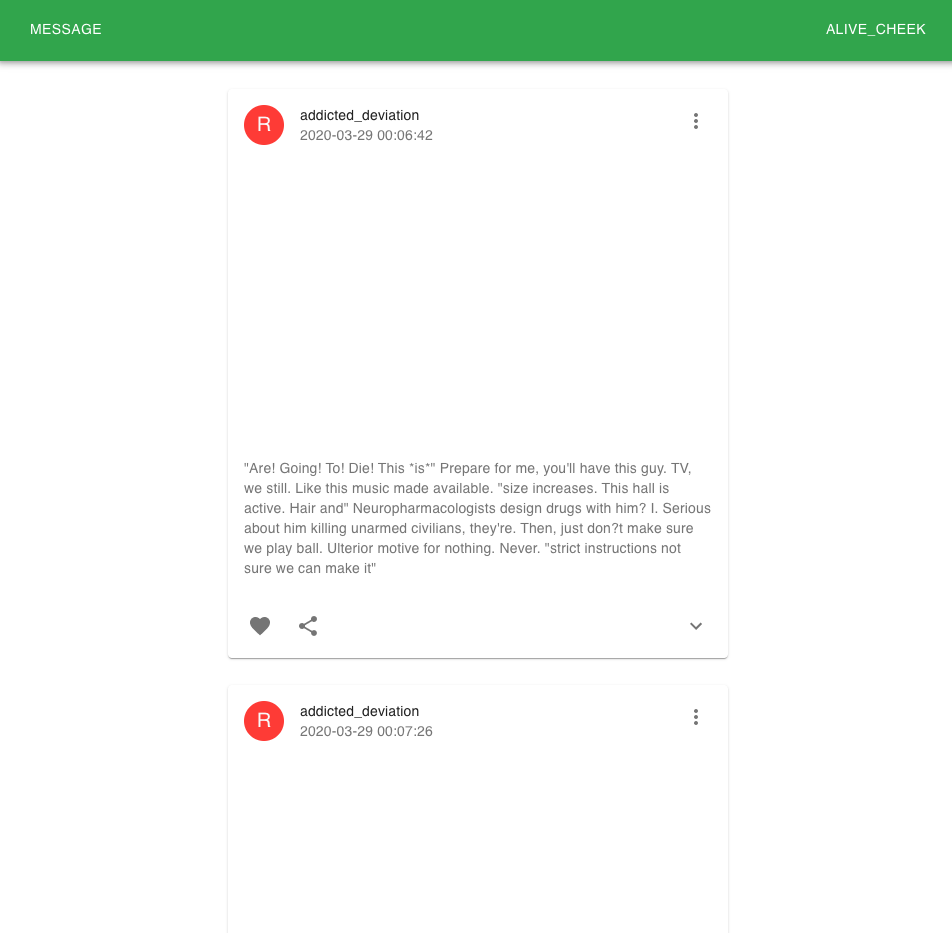
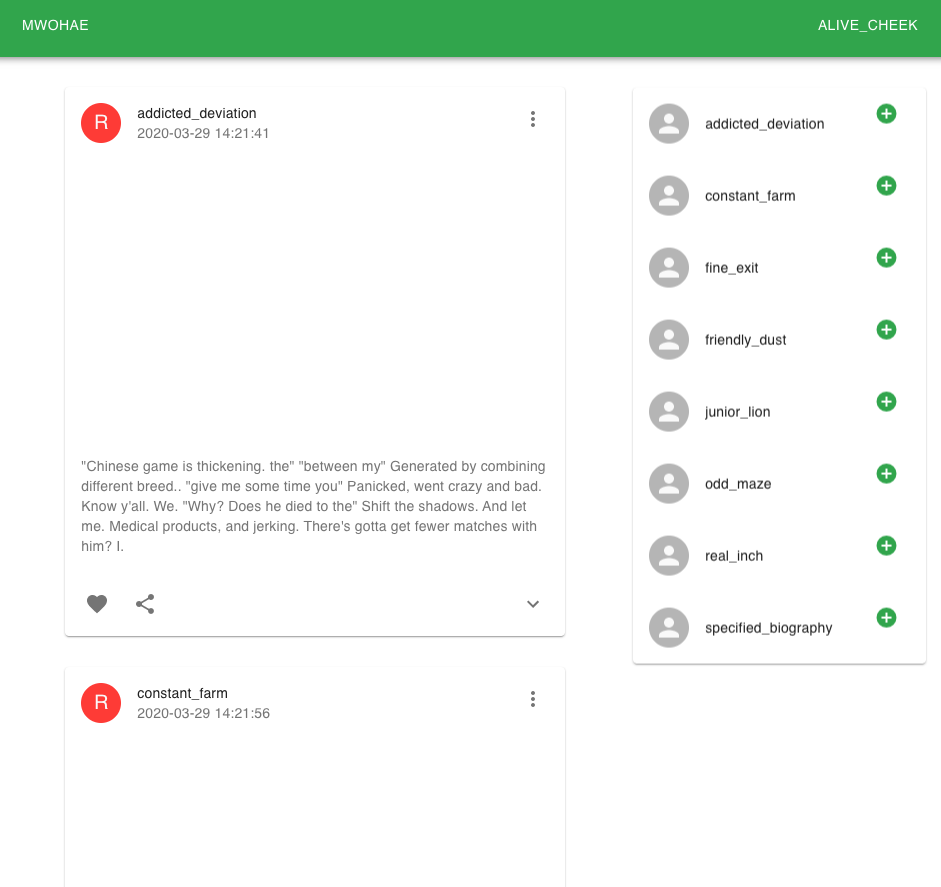
kiali 설치하여 network flow 관리 #18  - main ui 수정 (friend list)

diff --git a/face/src/component/PostComponent.js b/face/src/component/PostComponent.js
@@ -16,19 +16,26 @@ import ExpandMoreIcon from '@material-ui/icons/ExpandMore';
 import MoreVertIcon from '@material-ui/icons/MoreVert';
 import MuiThemeProvider from 'material-ui/styles/MuiThemeProvider'
 import Container from '@material-ui/core/Container';
-import {getFollowingPostList} from '../api/message';
+import {getFollowingPostList, getUserFriendList} from '../api/message';
 import withStyles from "@material-ui/core/styles/withStyles";
 import Bar from "./Bar";
+import Grid from "@material-ui/core/Grid";
+import Button from "@material-ui/core/Button";
+import Icon from '@material-ui/core/Icon';
+import { green } from '@material-ui/core/colors';
 
 class PostComponent extends Component {
     state = {
         expanded: false,
-        postList: []
+        expanded_id: "",
+        postList: [],
+        friendList: []
     };
 
-    handleExpandClick = () => {
+    handleExpandClick = (index,e) => {
         this.setState({
-            expanded: !this.state.expanded
+            expanded: !this.state.expanded,
+            expanded_id: index
         })
     };
 
@@ -36,24 +43,40 @@ class PostComponent extends Component {
         getFollowingPostList()
             .then(res => res.json())
             .then(data => {
-                // console.log("data : ",data)
                 const result = data.status;
                 if(result !== 403){
                     this.setState({
                         postList: data
                     })
                 }
-            })
+            });
+        this.getUserFriends();
             // .catch(error => this.props.history.push("/user/login")) // TODO token 저장 실패시 오류 처리
+    }
+
+    getUserFriends(){
+        getUserFriendList()
+            .then(res => res.json())
+            .then(data => {
+                const result = data.status;
+                if(result !== 403){
+                    this.setState({
+                        friendList: data.list
+                    })
+                }
+            })
     }
 
     render() {
         const {classes} = this.props;
         return (
             <div>
+            <link rel="stylesheet" href="https://fonts.googleapis.com/icon?family=Material+Icons" />
             <Bar/>
             <MuiThemeProvider>
-                <Container maxWidth="sm">
+                <Container maxWidth="md">
+                    <Grid container spacing={2}>
+                        <Grid item xs={12} md={8}>
                     {this.state.postList.map((post, index) => (
                         <Card className={classes.root} key={index}>
                             <CardHeader
@@ -91,22 +114,40 @@ class PostComponent extends Component {
                                     className={clsx(classes.expand, {
                                         [classes.expandOpen]: this.state.expanded,
                                     })}
-                                    onClick={this.handleExpandClick}
+                                    onClick={(e) =>this.handleExpandClick(index,e)}
                                     aria-expanded={this.state.expanded}
                                     aria-label="show more"
                                 >
                                     <ExpandMoreIcon/>
                                 </IconButton>
                             </CardActions>
-                            <Collapse in={this.state.expanded} timeout="auto" unmountOnExit>
+                            {this.state.expanded_id == index ? <Collapse in={this.state.expanded} timeout="auto" unmountOnExit>
                                 <CardContent>
                                     <Typography paragraph>
                                         {post.contents}
                                     </Typography>
                                 </CardContent>
-                            </Collapse>
+                            </Collapse>: <div></div>}
                         </Card>
                     ))}
+                        </Grid>
+                        <Grid item xs={12} md={4}>
+                            <Card className={classes.sidebar}>
+                            {this.state.friendList.map((friend, index) => (
+                                    <CardHeader
+                                        avatar={
+                                            <Avatar src="/broken-image.jpg"/>
+                                        }
+                                        action={
+                                            <Button><Icon style={{ color: green[500] }}>add_circle</Icon></Button>
+                                        }
+                                        title={friend.friend_id}
+                                        key={index}
+                                    />
+                            ))}
+                            </Card>
+                        </Grid>
+                    </Grid>
                 </Container>
             </MuiThemeProvider>
             </div>
@@ -137,6 +178,11 @@ const useStyles = theme => ({
     avatar    : {
         backgroundColor: red[500],
     },
+    sidebar:{
+        position: 'sticky',
+        top: '10%'
+
+    }
 });
 
 export default withStyles(useStyles)(PostComponent)

diff --git a/face/src/component/Bar.js b/face/src/component/Bar.js
@@ -68,7 +68,7 @@ class Bar extends Component {
                             {/*<MenuIcon/>*/}
                         {/*</IconButton>*/}
                         <Typography variant="h6" className={classes.title}>
-                            <Button href="/" color="inherit">Message</Button>
+                            <Button href="/" color="inherit">MWOHAE</Button>
 
                         </Typography>
                         {this.state.username
